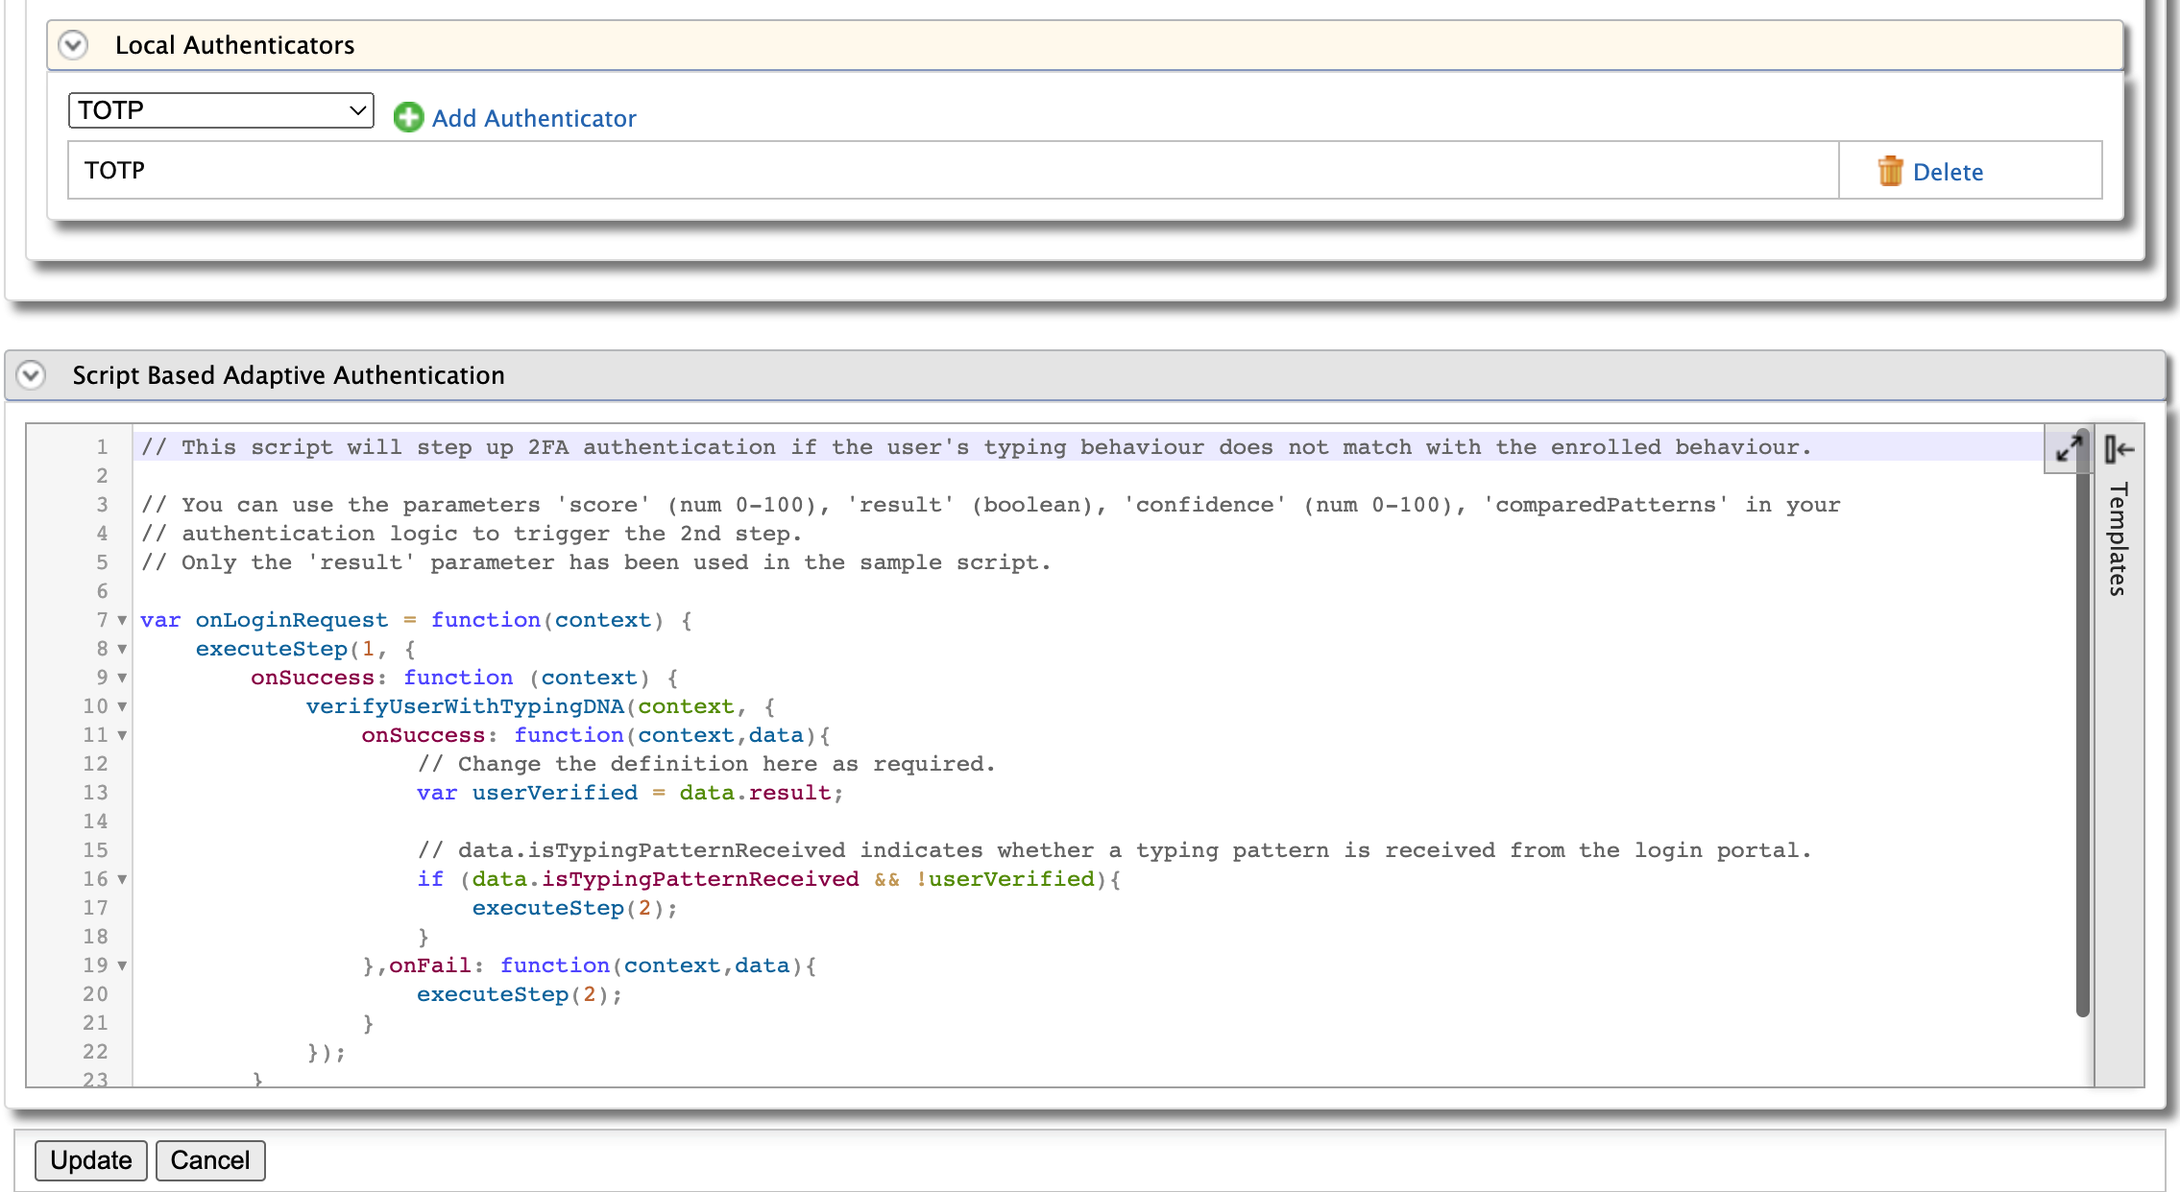
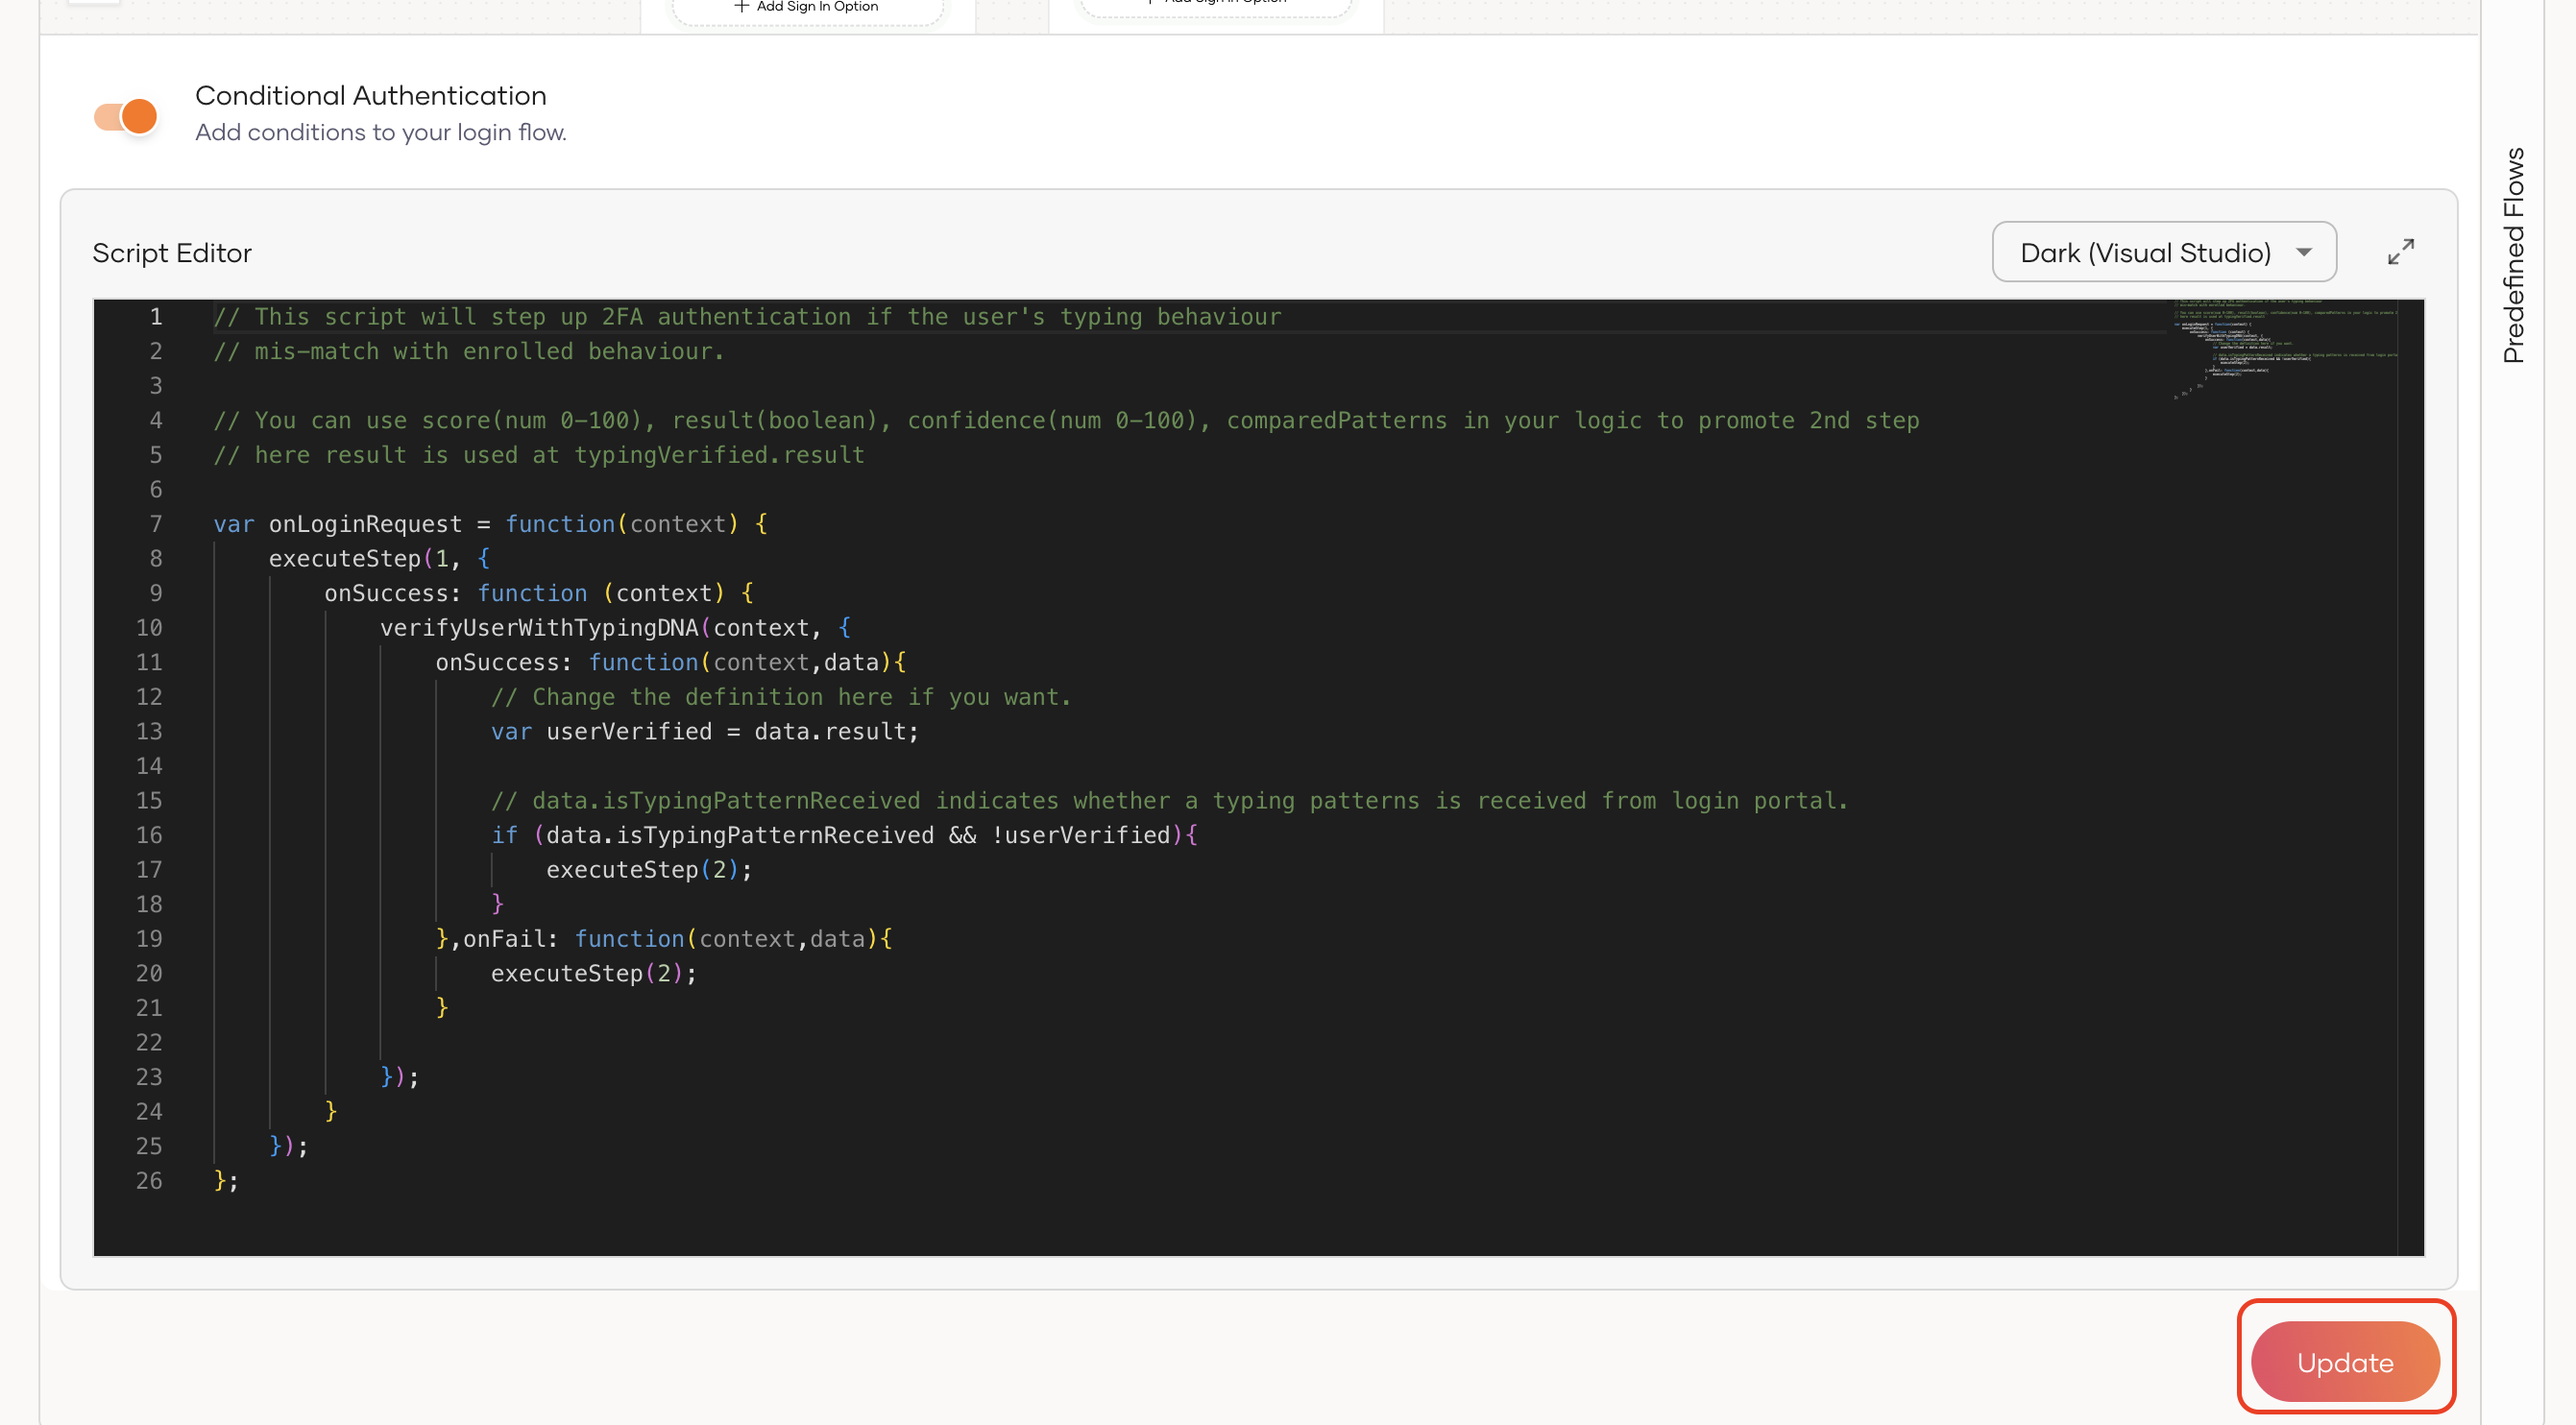
typing dna init

diff --git a/en/identity-server/7.0.0/docs/guides/authentication/conditional-auth/typingdna-based-adaptive-auth.md b/en/identity-server/7.0.0/docs/guides/authentication/conditional-auth/typingdna-based-adaptive-auth.md
@@ -1,0 +1,121 @@
+# Configure TypingDNA-based adaptive Authentication
+
+[Typing DNA](https://www.typingdna.com/) uses AI-based technology to authenticate users according to the way they type.
+
+You can integrate typingDNA with WSO2 Identity Server to provide risk-based adaptive authentication for users.
+
+----
+
+## Scenario
+Consider a scenario where you want to prompt an additional authentication step if the typing pattern of the user trying to log in does not match the typing pattern registered in the user's account. Then the log in flow of the user should be stepped up as follows:
+
+1. Basic authentication (username and password)
+2. TOTP
+
+----
+
+## Prerequisites
+
+- See the [general prerequisites]({{base_path}}/guides/authentication/conditional-auth/configure-conditional-auth/#prerequisites) for all adaptive authentication scenarios. 
+-  You need to [register an application with {{ product_name }}]({{base_path}}/guides/applications/). You can register your own application or use the [playground2](https://github.com/wso2/samples-is/releases/download/v4.6.2/playground2.war){:target="_blank"} sample application to test TypingDNA-based adaptive authentication.
+- [Create a user]({{base_path}}/guides/users/manage-users) named **Alex** with login permissions.
+- Create a typingDNA account. Learn how to create one [here](https://github.com/wso2-extensions/identity-conditional-auth-typingdna/blob/main/docs/files/Account%20Creation.pdf).
+
+    !!! info
+        Once you sign up for a typingDNA account, go to the dashboard and under API settings, enable **Auto-enroll**,   and **Force initial enrollments**.
+
+## Set up TypingDNA in WSO2 IS
+
+Follow the steps given below to set up typingDNA in the WSO2 IS server.
+
+1. Open the **deployment.toml** file found in the `<IS-Home>/repository/conf/` directory and add the following configuration:
+	```
+	[myaccount.security]
+    enabled_features=["security.loginVerifyData.typingDNA"]
+    ```
+
+2. Go to the [WSO2 store](https://store.wso2.com/store/assets/isconnector/list) and download both the authenticator and the artifacts from the **TypingDNA Connector**.
+
+3. Copy the Authenticator file (`org.wso2.carbon.identity.conditional.auth.typingdna.functions-x.x.x.jar`) to the `<IS-Home>/repository/components/dropins` directory.
+
+4. Unzip the Artifacts archive, copy the `api#identity#typingdna#v_.war` file to the `<IS-Home>/repository/deployment/server/webapps` directory.
+
+5. Restart the WSO2 IS.
+
+6. Go to **Login & Registration -> Other Settings -> TypingDNA Configuration** and make the following changes.
+
+    - Enable TypingDNA
+    - Configure the typingDNA API key and API secret retrieved from the typingDNA [dashboard](https://www.typingdna.com/clients/).
+    - Enable Advance TypingDNA-API mode if you have a pro/enterprise typingDNA account.
+    - Configure the region (eu or us).
+
+    ![TypingDNA configuration]({{base_path}}/assets/img/samples/typingdna-configuration.png)
+
+7. Click **Update** to save the changes.
+
+## Configure TypingDNA in applications
+
+Follow the steps given below to configure TypingDNA in your application.
+
+1. Go to **Service Providers -> List** and click **Edit** on the service provider that you want to configure TypingDNA in.
+
+2. Expand **Local and Outbound Authentication Configuration** and click **Advanced Configuration**.
+3. Configure two authentication steps.
+
+    !!! info
+        In this scenario, we will configure **Username and Password** and **TOTP**.
+    
+    ![TypingDNA configure two authentication steps]({{base_path}}/assets/img/samples/typingdna-two-steps.png)
+
+4. Expand **Script Based Adaptive Authentication** and add the following script:
+
+    ``` js
+    // This script will step up 2FA authentication if the user's typing behaviour does not match with the enrolled behaviour.
+
+    // You can use the parameters 'score' (num 0-100), 'result' (boolean), 'confidence' (num 0-100), 'comparedPatterns' in your 
+    // authentication logic to trigger the 2nd step. 
+    // Only the 'result' parameter has been used in the sample script. 
+
+    var onLoginRequest = function(context) {
+        executeStep(1, {
+            onSuccess: function (context) {
+                verifyUserWithTypingDNA(context, {
+                    onSuccess: function(context,data){
+                        // Change the definition here as required.
+                        var userVerified = data.result;
+
+                        // data.isTypingPatternReceived indicates whether a typing pattern is received from the login portal.
+                        if (data.isTypingPatternReceived && !userVerified){
+                            executeStep(2);
+                        }
+                    },onFail: function(context,data){
+                        executeStep(2);
+                    }
+                });
+            }
+        });
+    };
+
+    ```
+    ![TypingDNA script]({{base_path}}/assets/img/samples/typingdna-script.png)
+
+
+5. Click **Update** to save the changes.
+
+## Try it out
+
+1. Access the login page of the sample application and click **Log in**
+2. Use the credentials of **Alex** and log in to the application two times.
+    
+    !!! info
+        You will be prompted for the second step on both occasions. TypingDNA requires two initial enrollments to register the user’s typing pattern. You can change the number of minimum initial enrollments required in the API settings of the [typingDNA dashboard](https://www.typingdna.com/clients/).
+
+3. Log in for the third time with Alex's credentials.
+
+    !!! info
+        From this log in attempt and beyond, typingDNA will analyze your typing pattern against the registered typing pattern of the account. TOTP will only be prompted if your typing pattern does not match the typing pattern registered in Alex's account.
+
+
+
+
+
